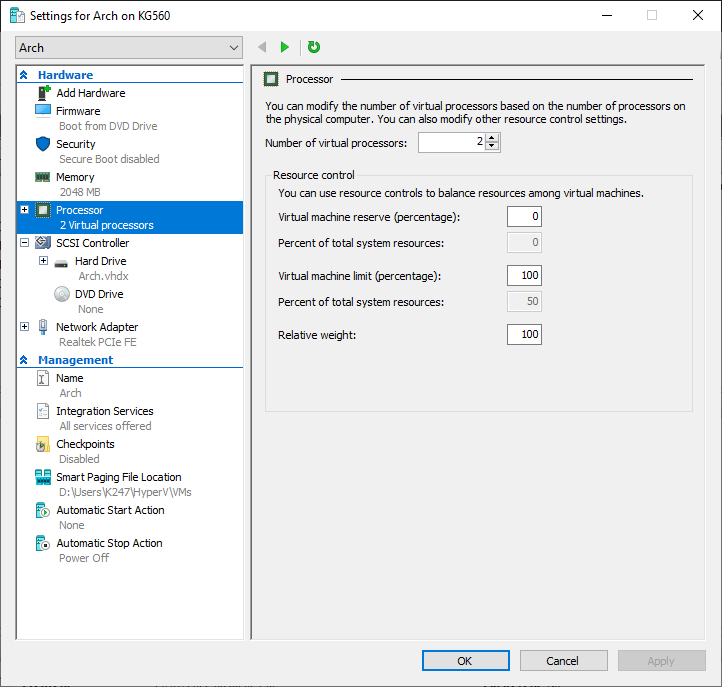
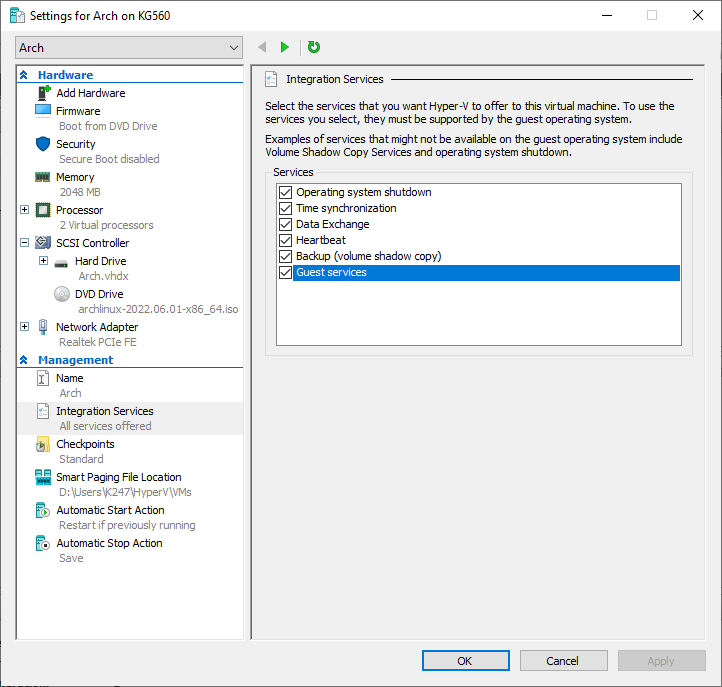
create-linux-vm completed

diff --git a/create-linux-vm/README.md b/create-linux-vm/README.md
@@ -27,7 +27,7 @@
 
 * Click **Next**.
 
-    ![specify-name-and-location](./images/virtWiz02.png)
+![specify-name-and-location](./images/virtWiz02.png)
 
 ### 3. Specify the Generation
 > **Generation 1 and Generation 2** virtual machines are two different types of virtual machines that can be created in Hyper-V. The main difference between the two is the **firmware** used to boot the virtual machine.
@@ -41,12 +41,78 @@
 
 * click **Next**.
 
-    ![gen1-and-gen2](./images/VirtWiz03.PNG)
+![gen1-and-gen2](./images/VirtWiz03.PNG)
 
 ### 4. Assign Memory
+* Specify the amount of Memory to allocate to the virtual machine (*e.g., 4096 MB or 2048MB*).
+
+* Uncheck the "**Use Dynamic Memory for this virtual machine**".
+
+* Click **Next**.
+
+![assign-memory](./images/VirtWiz04.PNG)
+
+> **NOTE:** If you want to have a virtual machine with GUI(*e.g. Desktop Environment*) allocate at least **4096MB** of RAM but if You are planning on setting up  linux as server **1024MB** or **2048MB** would be sufficient.
 
 ### 5. Configure Networking
+
+* Select the Network to connect the virtual machine to:
+
+    * **Not Connected**: No network connection.
+
+    * **Default Switch**: Connect to an internal network using a virtual switch.
+
+    * **Other Networks(if you've created [before](../enable-hyper-v/README.md#5-create-an-external-virtual-switch))**
+
+* Click **Next**.
+
+![configure-networking](./images/VirtWiz05.PNG)
+
 ### 6. Create a Virtual Hard Disk
+
+* Choose to Create a virtual hard disk or Use an existing virtual hard disk.
+
+* Specify the Name, Location, and Size of the virtual hard disk (*e.g., 30 GB*).
+
+* Click **Next**.
+
+![virtual-hard-disk](./images/VirtWiz06.PNG)
+> **NOTE:** Give your virtual machine at least **20GB** of space.
+
 ### 7. Select Linux Distro iso file
+
+* check **"Install an operating system from a bootable CD/DVD-ROM"**
+
+* check **"Image file (.iso)"** and then give it your iso file.
+
+* click **Next**.
+
+![installation-option](./images/VirtWiz07.PNG)
+
 ### 8. Complete the New Virtual Machine Wizard
+
+* check summary and if everything feels Ok, click finish.
+
 ### 9. Configure Created Virtual Machine For Linux
+
+* right click on the newly created virtual machine and then click on **Settings..."**
+
+    ![virt-settings](./images/VirtSetting01.PNG)
+
+* Navigate to **Security from Hardware section** and make sure secure boot is **disabled**.
+
+    ![secure-boot](./images/VirtSetting02.PNG)
+
+* Navigate to **Processor from Hardware section** and set the **"Number of virtual processors"** to at least **2**.
+
+    ![processor](./images/VirtSetting03.PNG)
+
+> **NOTE:** If You're using this virtual machines as a server, **1** processor would be enough.
+
+* Navigate to **Integration Services from Management section** and check all the services.
+
+    ![integration-services](./images/VirtSetting04.PNG)
+
+*  Navigate to **Checkpoints from Management section** and disable checkpoints.
+
+    ![checkpoints](./images/VirtSetting05.PNG)
